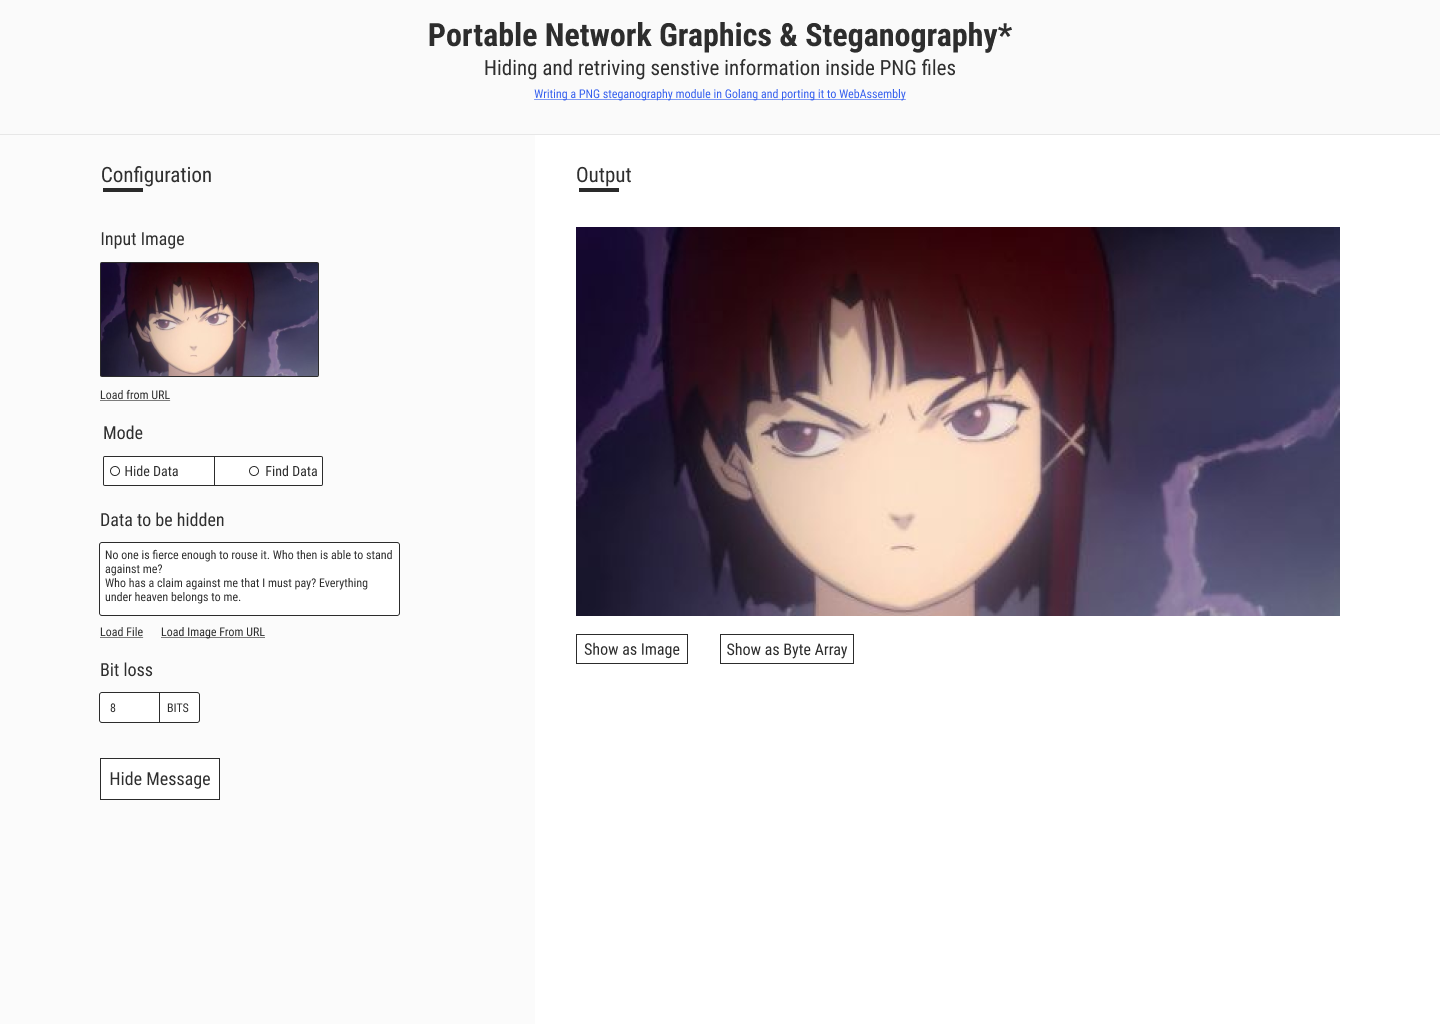
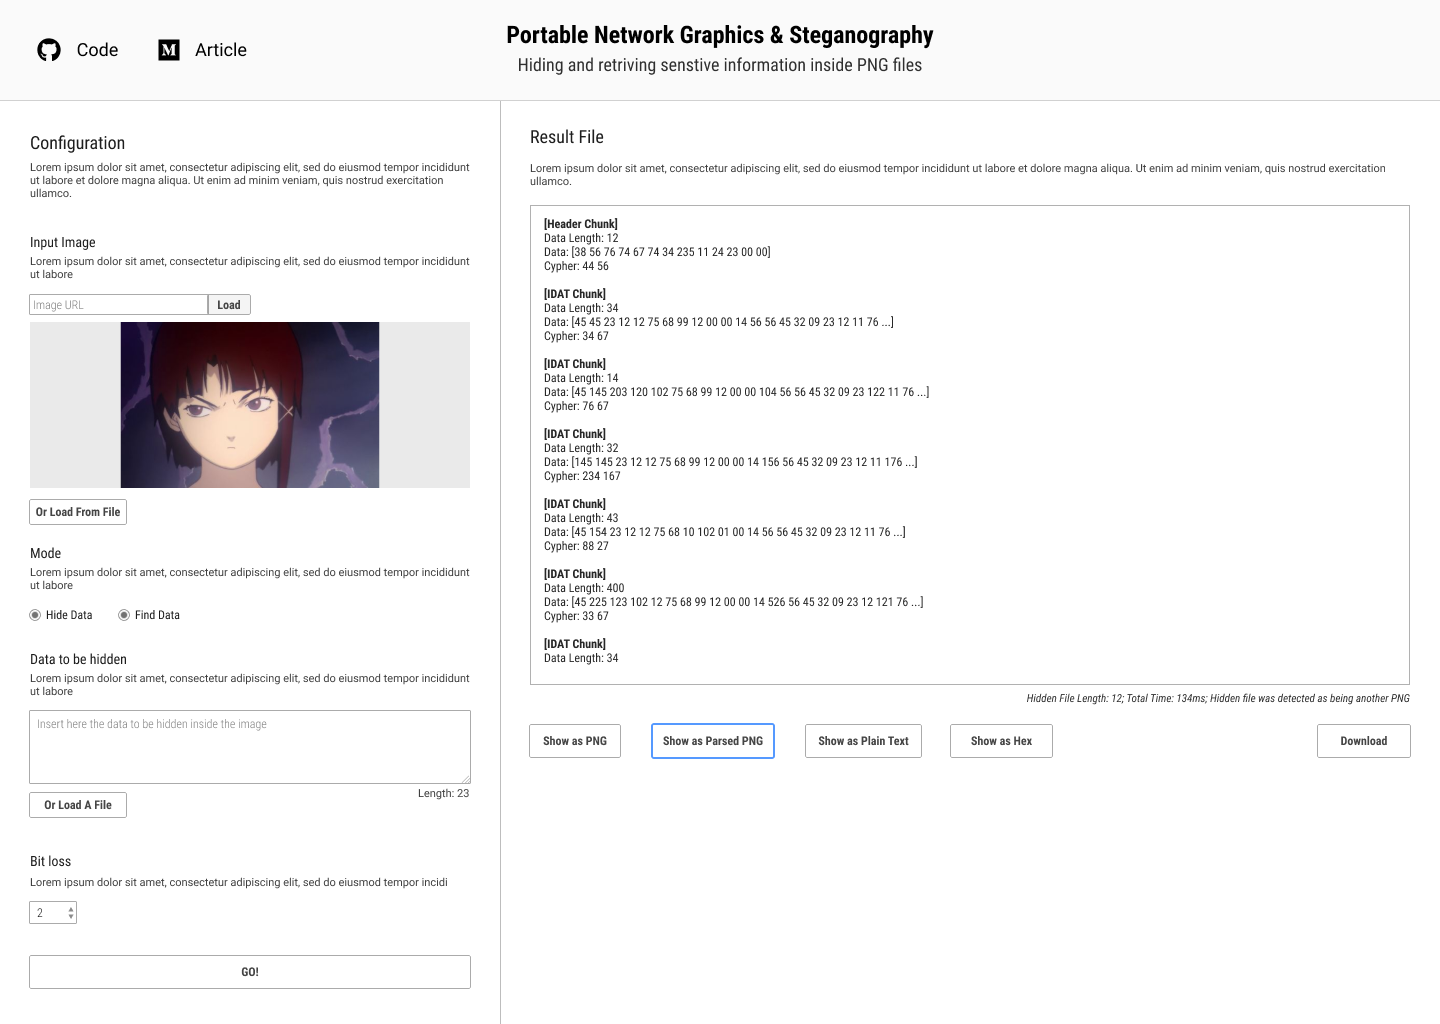
Make it responsive

diff --git a/webapp/src/components/output/index.tsx b/webapp/src/components/output/index.tsx
@@ -10,23 +10,6 @@ type Props = {
 
 export default function Output(props: Props) {
     const { state: { mode, output } } = props
-    const thereIsOutput = (!output.err && !output.loading && output.result)
-    const isLoading = !!output.loading
-    const err = output.err
-    const [showAs, setShowAs] = React.useState({ png: null, pPng: null, text: null, hex: null })
-
-    const imageUrl = React.useMemo(() => {
-        if (mode === 'HIDE') {
-            if (!output.err && !output.loading && output.result) {
-                const blob = new Blob([output.result], { type: "image/png" })
-
-                return URL.createObjectURL(blob)
-            }
-        }
-
-        return 'fake_url'
-
-    }, [mode, output.result])
 
     return (
         <div className="output-section">
@@ -42,8 +25,7 @@ export default function Output(props: Props) {
                     )}
                     {mode === 'FIND' && (
                         <span>
-                            This is what we found after searching deep down in the bits of the
-                            input image: <b>Please fill the configuration form first</b>
+                            This is what we found after looking for a hidden secret inside this image
                         </span>
                     )}
                 </div>
@@ -58,7 +40,7 @@ export default function Output(props: Props) {
                     <PPNG.OutputView {...props.state} />
                 </div>
                 <div className="info">
-                    Hidden File Length: 12; Total Time: 134ms; Hidden file was detected as being another PNG
+                    {output.result && (<span>Hidden File Length: {output?.result?.length};</span>)}
                 </div>
                 <div className="view-options">
                     <PNG.Button {...props.state} setOutputView={props.actions.setOutputView} />

diff --git a/webapp/src/components/header/style.scss b/webapp/src/components/header/style.scss
@@ -38,4 +38,80 @@ header {
             font-weight: bold;
         }
     }
+
+    @media screen and (max-width: 860px){
+        .main-title {
+            flex: 1;
+        }
+    }
+
+    @media screen and (max-width: 720px){
+        padding: 0 15px;
+
+        .main-title {
+            h1 {
+                font-size: 21px;
+            }
+        }
+
+        .icons {
+            .icon {
+                i {
+                    font-size: 18px;
+                }
+            }
+        }
+    }
+
+    @media screen and (max-width: 620px){
+        .icons {
+            display: flex;
+            justify-content: center;
+            flex: 0.1;
+            flex-flow: column;
+
+            .icon {
+                height: auto;
+                width: 70px;
+                font-size: 14px;
+                i {
+                    font-size: 16px;
+                    margin-right: 5px;
+                }
+            }
+
+            .github {
+                margin-bottom: 10px;
+                i {
+                    font-size: 18px; //medium icon is large :(
+                }
+            }
+        }
+
+        .main-title {
+            flex: 0.8;
+            h1 {
+                font-size: 16px;
+            }
+            .subtitle {
+                font-size: 14px;
+            }
+        }
+    }
+
+    @media screen and (max-width: 460px){
+        .icons {
+            flex: none;
+            margin-right: 10px;
+        }
+
+        .main-title {
+            flex: 1;
+        }
+    }
+
+
+    @media screen and (max-width: 385px){
+        height: 100px;
+    }
 }

diff --git a/webapp/src/components/output/style.scss b/webapp/src/components/output/style.scss
@@ -86,6 +86,7 @@
             .output-type.plain-text {
                 pre {
                     white-space: break-spaces;
+                    line-break: anywhere;
                 }
             }
         }
@@ -94,16 +95,18 @@
             font-family: 'Roboto';
             font-size: 12px;
             text-align: right;
-            margin-bottom: 20px;
+            margin-bottom: 15px;
             color: #404040;
         }
 
         .view-options {
             display: flex;
+            flex-wrap: wrap;
             .btn {
                 min-width: 120px;
                 &:not(:last-child) {
                     margin-right: 10px;
+                    margin-bottom: 10px;
                 }
 
                 &.selected {
@@ -124,6 +127,28 @@
                     }
                 }
             }
+        }
+    }
+
+    @media screen and (max-width: 720px) {
+        padding: 15px 15px;
+    }
+
+    @media screen and (max-width: 450px) {
+        .result-file {
+            .output {
+                height: 300px;
+            }
+
+            .view-options {
+                justify-content: space-between;
+                .btn {
+                    &:not(:last-child) {
+                        margin-right: 0px;
+                        margin-bottom: 10px;
+                    }
+                }
+            }    
         }
     }
 }

diff --git a/webapp/src/App.tsx b/webapp/src/App.tsx
@@ -3,9 +3,13 @@ import Header from './components/header';
 import Configuration from './components/configuration';
 import Output from './components/output';
 import reducer, { makeActions, initialState } from './duck';
+import { match } from 'assert';
 
 function App() {
 	const [state, actions] = makeActions(React.useReducer(reducer, initialState));
+	const matches = useMatchMedia('screen and (max-width: 860px)');
+
+	const showOutput = !matches || (state.output.result);
 
 	return (
 		<div className="App">
@@ -14,12 +18,34 @@ function App() {
 				<section>
 					<Configuration state={state} actions={actions} />
 				</section>
-				<section>
-					<Output state={state} actions={actions} />
-				</section>
+				{showOutput && (
+					<section>
+						<Output state={state} actions={actions} />
+					</section>
+				)}
 			</main>
 		</div>
 	);
+}
+
+// We can move it to duck
+const useMatchMedia = (str: string) => {
+	const [matches, setMatches]	= React.useState(matchMedia(str).matches);
+	const fn = React.useCallback(() => {
+		console.log('nn')
+		setMatches(matchMedia(str).matches);
+	}, [str]);
+
+	React.useEffect(() => {
+		window.addEventListener("resize", fn);
+		console.log('dd')
+
+		return () => {
+			window.removeEventListener("resize", fn);
+		}
+	}, [fn])
+
+	return matches;
 }
 
 export default App;

diff --git a/webapp/src/duck/index.ts b/webapp/src/duck/index.ts
@@ -117,7 +117,8 @@ export function makeActions([state, dispatch]: [State, (action: Action) => void]
                 window.PNG.revealData(state.imageBuf as Uint8Array, handle)
             }
 
-            window.scrollTo(0, 0)
+            if (matchMedia('screen and (max-width: 860px)').matches) setTimeout(() => window.scrollTo(0, document.body.scrollHeight), 100)
+            else window.scrollTo(0, 0)
         }
     }]
 }

diff --git a/webapp/src/components/configuration/style.scss b/webapp/src/components/configuration/style.scss
@@ -240,4 +240,20 @@
             margin-top: 10px;
         }
     }
+
+    @media screen and (max-width: 860px) {
+        border-right: none;
+    }
+
+    @media screen and (max-width: 720px) {
+        padding: 15px 15px;
+    }
+
+    @media screen and (max-width: 385px){
+        .input-file {
+            .load-url-input input {
+                width: calc(100% - 45px);
+            }
+        }
+    }
 }

diff --git a/webapp/src/index.css b/webapp/src/index.css
@@ -28,3 +28,18 @@ code {
 .App main section:last-child {
   flex: 0.6;
 }
+
+@media screen and (max-width: 860px) {
+  .App main {
+    flex-flow: column;
+  }
+
+  .App main section:first-child {
+    flex: 1;
+  }
+  
+  .App main section:last-child {
+    flex: 1;
+  }
+
+}
